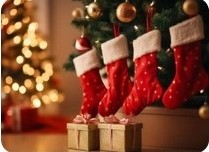
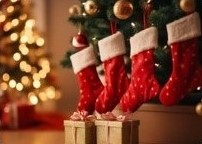
Add files via upload

diff --git a/IndexNav.html b/IndexNav.html
@@ -19,7 +19,7 @@
             background-size: cover;
             display: block;
 
-            filter: blur(10px) contrast(30%);
+            filter: blur(10px) contrast(60%);
 
             height: 100%;
             width: 100%;
